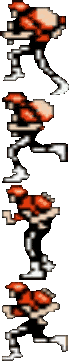
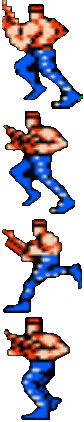
Cocos2d 20180701 HomeWork-01 add up and down function

diff --git a/src/charles06.js b/src/charles06.js
@@ -5,6 +5,9 @@ var Charles06Layer = cc.Layer.extend({
     man:null,
     manFrame:new Array(4),
     action:0,
+    manUp:new Array(1),
+    manDown:new Array(1),
+    isRight:true,
     ctor:function () {
 
         this._super();
@@ -25,17 +28,34 @@ var Charles06Layer = cc.Layer.extend({
         // 載入人物動作圖
         var frameCache = cc.spriteFrameCache;
         frameCache.addSpriteFrames(res.man_plist,res.man_png);
-        var img37 = frameCache.getSpriteFrame("image37.png");
-        var img38 = frameCache.getSpriteFrame("image38.png");
-        var img39 = frameCache.getSpriteFrame("image39.png");
-        var img40 = frameCache.getSpriteFrame("image40.png");
-        this.manFrame =[img37,img38,img39,img40];
+        var img79 = frameCache.getSpriteFrame("image79.png");
+        var img80 = frameCache.getSpriteFrame("image80.png");
+        var img81 = frameCache.getSpriteFrame("image81.png");
+        var img82 = frameCache.getSpriteFrame("image82.png");
+        this.manFrame =[img79,img80,img81,img82];
+
+        //人物往上看
+        var frameCache1 = cc.spriteFrameCache;
+        frameCache1.addSpriteFrames(res.manup_plist,res.manup_png);
+        var img3 = frameCache1.getSpriteFrame("image3.png");
+        this.manUp =[img3];
+        this.manUp[0].x = cc.winSize.width/2;
+        this.manUp[0].y = cc.winSize.height/2+80;
+
+        // 人物趴下
+        var frameCache2 = cc.spriteFrameCache;
+        frameCache2.addSpriteFrames(res.mandown_plist,res.mandown_png);
+        var img74 = frameCache1.getSpriteFrame("image74.png");
+        this.manDown =[img74];
+        this.manDown[0].x = cc.winSize.width/2;
+        this.manDown[0].y = cc.winSize.height/2+80;
 
 
 
         this.man = new cc.Sprite(this.manFrame[this.action]);
         this.man.x = cc.winSize.width/2;
-        this.man.y = cc.winSize.height/2+44;
+        this.man.y = cc.winSize.height/2+60;
+        this.man.runAction(cc.flipX(true));
 
 
 
@@ -51,14 +71,22 @@ var Charles06Layer = cc.Layer.extend({
             onKeyPressed:function(keyCode,event){
                 var target = event.getCurrentTarget();
                 switch(keyCode){
+                    case 38: //up
+                        target.watchUp();
+                        break;
+
+                    case 40: //down
+                        target.getDown();
+                        break;
                     case 39: //right
                         target.goForward();
-                        target.man.runAction(cc.flipX(true));
+
                         break;
                     case 37: //left
                         target.goBack();
-                        target.man.runAction(cc.flipX(false));
+
                         break;
+
                 }
             },
             // 按鍵放開
@@ -74,10 +102,13 @@ var Charles06Layer = cc.Layer.extend({
         return true;
     },
 
+
+
     goForward:function(){
         if (this.bg.x + this.bg.width/2 - this.dx >= cc.winSize.width) {
             this.bg.x -= this.dx;
-
+            this.isRight= true;
+            this.man.runAction(cc.flipX(true));
             this.action = this.action == 3 ? 0 : this.action + 1;
             this.man.setSpriteFrame(this.manFrame[this.action]);
         }
@@ -86,18 +117,28 @@ var Charles06Layer = cc.Layer.extend({
             this.man.x +=this.dx;
             this.action = this.action == 3 ? 0 : this.action + 1;
             this.man.setSpriteFrame(this.manFrame[this.action]);
+            this.isRight= true;
         }
     },
     goBack:function(){
         if(this.bg.x - this.bg.width/2 +this.dx <= 0 ){
             this.bg.x += this.dx;
-
+            this.man.runAction(cc.flipX(false));
             this.action = this.action==3?0:this.action+1;
             this.man.setSpriteFrame(this.manFrame[this.action]);
+            this.isRight= false;
         }
 
 
 
+    },
+
+    watchUp:function(){
+        this.man.setSpriteFrame(this.manUp[0]);
+    },
+
+    getDown:function(){
+        this.man.setSpriteFrame(this.manDown[0]);
     }
 
 });

diff --git a/src/resource.js b/src/resource.js
@@ -26,7 +26,11 @@ var res = {
     HelloWorld_png : "res/HelloWorld.png",
     bg_png:"res/bg.png",
     man_png:"res/man.png",
-    man_plist:"res/man.plist"
+    man_plist:"res/man.plist",
+    manup_png:"res/manup.png",
+    manup_plist:"res/manup.plist",
+    mandown_png:"res/mandown.png",
+    mandown_plist:"res/mandown.plist"
 };
 
 var g_resources = [];
